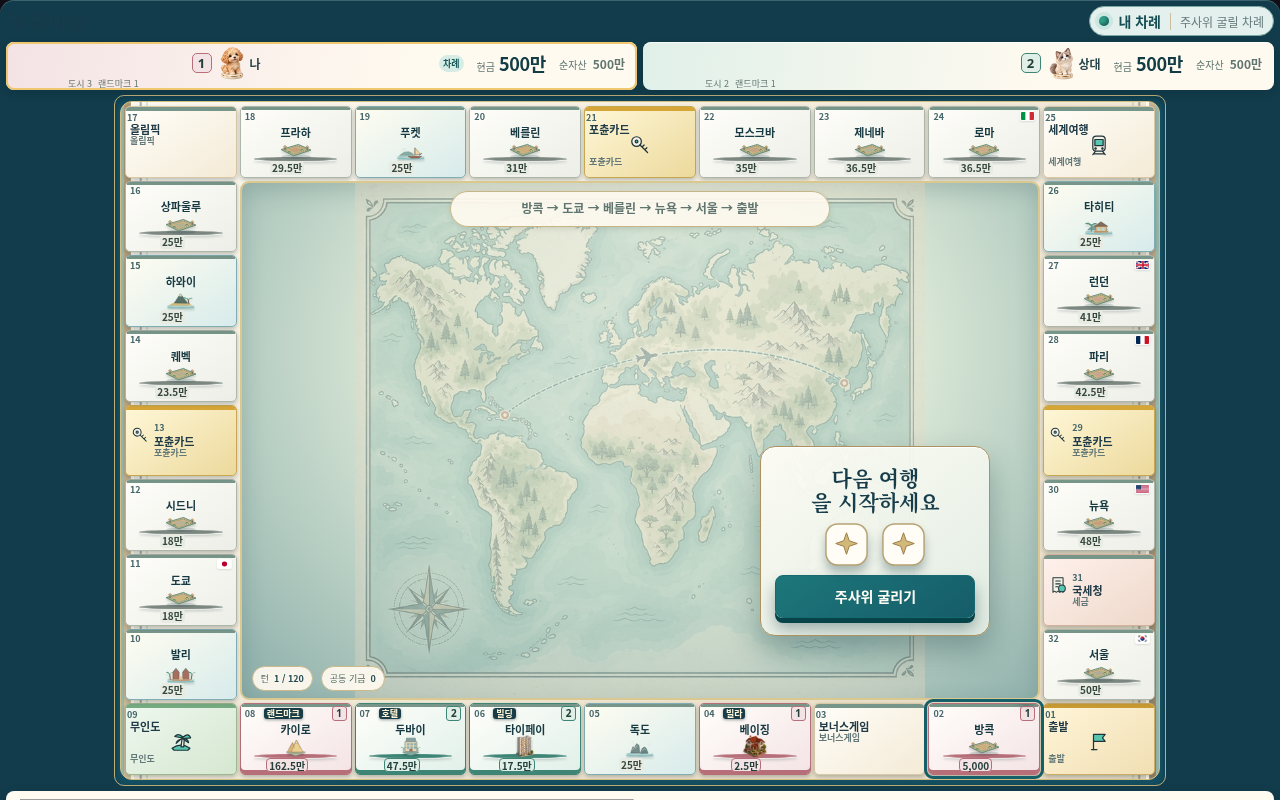
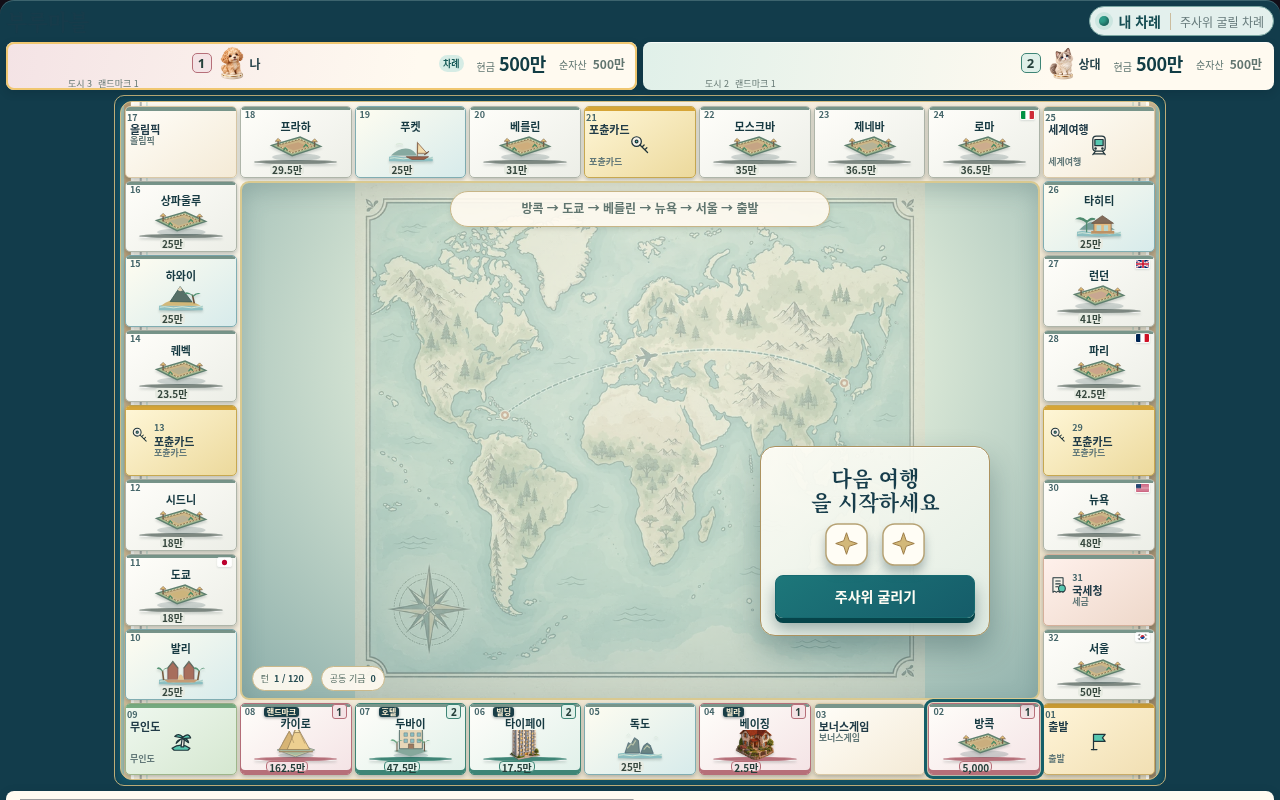
Polish classic Marble stage and crowded mobile board

diff --git a/src/app/MarbleTeamBoard.tsx b/src/app/MarbleTeamBoard.tsx
@@ -78,7 +78,7 @@ export default function MarbleTeamBoard({view:raw,language,runAction,nickname,ro
     catch(cause){setFailure(cause instanceof Error?cause.message:text(language,'다시 시도해 주세요.','Inténtalo de nuevo.'));playCue('marble','error');}
     finally{actionLock.current=false;setPending(false);}
   };
-  const inspect=(index:number)=>{setSelected(index);if(citySheet.current)citySheet.current.open=true;};
+  const inspect=(index:number)=>{setSelected(index);if((view.publicBoard.length!==32||window.innerWidth>680)&&citySheet.current)citySheet.current.open=true;};
   const button=(type:string,primary=false)=>{const choice=first(type);return choice&&!sameAction(choice.action,primaryAction?.action)?<button key={type} className={primary?'mt-primary':'mt-secondary'} disabled={disabled} onClick={()=>void act(choice.action)}>{choice.label[language]}</button>:null;};
   const bank=(seat:FourSeat)=><MarbleTeamBank key={seat} seat={seat} name={names[seat][language]} pawn={s.pawns[seat]} cash={hudMoney[seat]} assets={Number(hudScores[seat])} debt={s.debt[seat]} position={motion.positions[seat]} active={view.turn===seat&&!view.result} eliminated={s.eliminated[seat]} team={fourTeam(seat)} language={language}/>;
   return <section className="marble-native-team marble-team-board is-modern" data-marble-player-count="4" aria-label={text(language,'도시 여행 4인 팀전','Marble por equipos de cuatro')}>
@@ -99,7 +99,7 @@ export default function MarbleTeamBoard({view:raw,language,runAction,nickname,ro
         {motion.rolling||motion.traveler||motion.positions[view.turn]!==pos?<div className="mp-moving-status" aria-live="polite"><h2>{text(language,'여행 중','En camino')}</h2><div className="mp-stage-dice"><MarbleDie value={s.lastRoll[0]} language={language}/><MarbleDie value={s.lastRoll[1]} language={language}/></div><p>{text(language,'말이 한 칸씩 이동하고 있어요','La ficha avanza casilla por casilla')}</p></div>:view.phase==='roll'?<><h2>{human?text(language,'다음 여행을 시작하세요','Empieza el próximo viaje'):`${names[view.turn][language]} · ${text(language,'차례','turno')}`}</h2><div className={`mt-dice mp-stage-dice ${motion.rolling?'is-rolling':''}`} aria-label={text(language,`주사위 ${s.lastRoll[0]}과 ${s.lastRoll[1]}`,`Dados ${s.lastRoll[0]} y ${s.lastRoll[1]}`)}><MarbleDie value={s.lastRoll[0]} language={language}/><MarbleDie value={s.lastRoll[1]} language={language}/></div>{human&&primaryAction&&<button id="mt-action-primary" className="mt-primary" disabled={disabled} onClick={()=>void act(primaryAction.action)}>{primaryAction.label[language]}</button>}</>:<>
           {primaryCity.kind==='property'?<figure className={`mp-stage-art ${motion.changedProperties.includes(primaryIndex)?'is-upgrading':''}`} key={`${cityArtNames[primaryCity.name.ko]??''}-${primaryProp?.houses??0}`}><MarblePropertyArt city={cityArtNames[primaryCity.name.ko]??''} level={primaryProp?.houses??0} routeVersion={3} language={language} owner={primaryProp?.owner??null} ownerLabel={primaryProp?names[primaryProp.owner][language]:text(language,'은행','Banco')}/></figure>:<span className="mp-stage-special" aria-hidden="true"><svg viewBox="0 0 32 32"><use href={`/images/marble/tile-symbols.svg#${primaryCity.kind==='fund-deposit'?'fund-pay':primaryCity.kind==='event'?'key':primaryCity.kind}`}/></svg></span>}
           <div className="mp-stage-details"><small className="mp-center-action-phase">{human&&primaryAction?.action.type==='build'?text(language,'도시 건설','Construir ciudad'):human?phaseNames[view.phase]?.[language]:`${names[view.turn][language]} · ${text(language,'차례','turno')}`}</small><h2>{primaryCity.name[language]}</h2><span className="mp-stage-cash-before">{text(language,`내 현금 ${moneyText(s.money.p1,language)}`,`Mi efectivo ${moneyText(s.money.p1,language)}`)}</span>
-            {primaryCity.kind==='property'?<p className="mp-stage-property-line">{primaryProp?`${names[primaryProp.owner][language]} · ${buildingName(primaryProp.houses,language,true)||text(language,'미건설','Sin construir')} · ${text(language,`${primaryProp.houses}단계`,`nivel ${primaryProp.houses}`)} · ${text(language,'통행료','Alquiler')} ${rentValue({...primaryCity,houses:primaryProp.houses},true)}`:text(language,`미소유 · 미건설 0단계 · 매입 ${primaryCity.price} · 기본 통행료 ${primaryCity.rent}`,`Sin dueño · terreno nivel 0 · compra ${primaryCity.price} · alquiler base ${primaryCity.rent}`)}</p>:<p className="mp-stage-property-line">{text(language,`현금 ${moneyText(s.money.p1,language)} · 공동 기금 ${moneyText(s.fundPool,language)}`,`Efectivo ${moneyText(s.money.p1,language)} · fondo ${moneyText(s.fundPool,language)}`)}</p>}
+            {primaryCity.kind==='property'?<p className="mp-stage-property-line">{primaryProp?`${names[primaryProp.owner][language]} · ${buildingName(primaryProp.houses,language,true,view.publicBoard.length===32?4:3)||text(language,'미건설','Sin construir')} · ${text(language,`${primaryProp.houses}단계`,`nivel ${primaryProp.houses}`)} · ${text(language,'통행료','Alquiler')} ${moneyText(rentValue({...primaryCity,houses:primaryProp.houses},true),language)}`:view.publicBoard.length===32?text(language,`미소유 · 빈 땅 · 매입 ${moneyText(Number(primaryCity.price??0),language)} · 통행료 ${moneyText(Number(primaryCity.rent??0),language)}`,`Sin dueño · terreno · compra ${moneyText(Number(primaryCity.price??0),language)} · alquiler ${moneyText(Number(primaryCity.rent??0),language)}`):text(language,`미소유 · 미건설 0단계 · 매입 ${moneyText(Number(primaryCity.price??0),language)} · 기본 통행료 ${moneyText(Number(primaryCity.rent??0),language)}`,`Sin dueño · terreno nivel 0 · compra ${moneyText(Number(primaryCity.price??0),language)} · alquiler base ${moneyText(Number(primaryCity.rent??0),language)}`)}</p>:<p className="mp-stage-property-line">{text(language,`현금 ${moneyText(s.money.p1,language)} · 공동 기금 ${moneyText(s.fundPool,language)}`,`Efectivo ${moneyText(s.money.p1,language)} · fondo ${moneyText(s.fundPool,language)}`)}</p>}
             {human&&unaffordableBuild&&<p className="mp-stage-shortfall" role="status">{text(language,`${view.publicBoard[Number(unaffordableBuild[0])].name.ko} 다음 건설 ${marbleBuildCost(view.publicBoard[Number(unaffordableBuild[0])],unaffordableBuild[1].houses,3)} · ${marbleBuildCost(view.publicBoard[Number(unaffordableBuild[0])],unaffordableBuild[1].houses,3)-s.money.p1} 부족`,`Próximo nivel de ${view.publicBoard[Number(unaffordableBuild[0])].name.es}: ${marbleBuildCost(view.publicBoard[Number(unaffordableBuild[0])],unaffordableBuild[1].houses,3)} · faltan ${marbleBuildCost(view.publicBoard[Number(unaffordableBuild[0])],unaffordableBuild[1].houses,3)-s.money.p1}`)}</p>}
             {view.phase==='decision'&&primaryCity.kind==='property'&&<MarbleDecisionPreview kind="buy" cost={Number(primaryCity.price??0)} cashAfter={s.money.p1-Number(primaryCity.price??0)} tollBefore={0} tollAfter={Number(primaryCity.rent??0)} shortfall={Math.max(0,Number(primaryCity.price??0)-s.money.p1)} language={language}/>}
             {human&&builds.length>0&&<small className="mp-build-count-note">{text(language,`건설 가능한 도시 ${builds.length}곳`,`Ciudades disponibles para construir: ${builds.length}`)}</small>}
@@ -132,7 +132,7 @@ export default function MarbleTeamBoard({view:raw,language,runAction,nickname,ro
       {human&&by('choose-pawn').length>0&&<details className="mt-pawn-picker"><summary>{text(language,'내 말 선택','Elegir tu ficha')}</summary><MarblePawnPicker view={pawnView} language={language} playerId="p1" runAction={act} disabled={disabled}/></details>}
       {human&&view.phase!=='debt'&&(first('borrow')||first('repay'))&&<details className="mt-loan"><summary>{text(language,'대출·상환','Préstamo y pago')}</summary><p>{text(language,'300을 받고 330을 갚습니다. 개인 대출은 하나만 가능합니다.','Recibes 300 y devuelves 330. Solo un préstamo individual pendiente.')}</p>{button('borrow')}{button('repay')}</details>}
       {motion.event&&<MarbleEventStage events={s.actionLog} event={motion.event} animating={motion.rolling||!!motion.traveler} language={language} playerId="p1" playerNames={names} result={view.result}/>}
-      <details ref={citySheet} className="mt-city-sheet" data-marble-owner={selectedProperty?.owner??'bank'}><summary>{text(language,'도시 살펴보기','Ver ciudad')} · {selectedCity.name[language]}</summary>{selectedCity.kind==='property'?<><MarblePropertyArt city={cityArtNames[selectedCity.name.ko]??''} level={selectedProperty?.houses??0} routeVersion={3} language={language} owner={selectedProperty?.owner??null} ownerLabel={selectedProperty?names[selectedProperty.owner][language]:text(language,'은행','Banco')}/><h3>{selectedCity.name[language]}</h3><p>{text(language,'소유','Dueño')} · {selectedProperty?names[selectedProperty.owner][language]:text(language,'은행','Banco')}</p><p>{text(language,'매입가','Compra')} {selectedCity.price}</p><MarblePropertyLedger tile={selectedCity} language={language} economicVersion={3} propertyRulesVersion={s.propertyRulesVersion} multiplier={(selectedCity as any).monopolyMultiplier??1}/>{selectedBuild&&<button disabled={disabled} onClick={()=>document.querySelector<HTMLElement>('#mt-action-primary:not(:disabled)')?.focus()}>{text(language,'중앙 건설 행동으로 이동','Ir a construir')}</button>}</>:<p>{selectedCity.name[language]}</p>}</details>
+      <details ref={citySheet} className="mt-city-sheet" data-marble-owner={selectedProperty?.owner??'bank'}><summary>{text(language,'도시 살펴보기','Ver ciudad')} · {selectedCity.name[language]}</summary>{selectedCity.kind==='property'?<><MarblePropertyArt city={cityArtNames[selectedCity.name.ko]??''} level={selectedProperty?.houses??0} routeVersion={view.publicBoard.length===32?4:3} language={language} owner={selectedProperty?.owner??null} ownerLabel={selectedProperty?names[selectedProperty.owner][language]:text(language,'은행','Banco')}/><h3>{selectedCity.name[language]}</h3><p>{text(language,'소유','Dueño')} · {selectedProperty?names[selectedProperty.owner][language]:text(language,'은행','Banco')}</p><p>{text(language,'매입가','Compra')} {moneyText(Number(selectedCity.price??0),language)}</p><MarblePropertyLedger tile={selectedCity} language={language} economicVersion={3} propertyRulesVersion={s.propertyRulesVersion} multiplier={(selectedCity as any).monopolyMultiplier??1}/>{selectedBuild&&<button disabled={disabled} onClick={()=>document.querySelector<HTMLElement>('#mt-action-primary:not(:disabled)')?.focus()}>{text(language,'중앙 건설 행동으로 이동','Ir a construir')}</button>}</>:<p>{selectedCity.name[language]}</p>}</details>
       <details className="mt-portfolio"><summary>{text(language,`내 도시 ${owned.length}`,`Mis ciudades ${owned.length}`)}</summary><div>{owned.map(([index,prop])=><button key={index} onClick={()=>inspect(Number(index))}><MarblePropertyArt city={cityArtNames[view.publicBoard[Number(index)].name.ko]??''} level={prop.houses} routeVersion={3} language={language} owner={prop.owner} ownerLabel={names[prop.owner][language]}/><span>{view.publicBoard[Number(index)].name[language]}</span><small>{text(language,`${prop.houses}단계`,`Nivel ${prop.houses}`)}</small></button>)}</div></details>
       {(s.actionLog?.length??0)>0&&<details className="mt-history"><summary>{text(language,'여행 기록','Historial del viaje')}</summary><ol>{s.actionLog.slice(-8).reverse().map(event=><li key={event.sequence}><strong>{event.title[language]}</strong><span>{event.text[language]}</span></li>)}</ol></details>}
       {view.result&&<section className="mt-result" role="status"><h2>{view.result.winner==='draw'?text(language,'무승부','Empate'):view.result.winner==='A'?text(language,'우리 팀 승리','Ganó tu equipo'):text(language,'상대 팀 승리','Ganó el equipo rival')}</h2><p>{view.result.scores.A} : {view.result.scores.B}</p><p>{view.result.reason[language]}</p>{onReplay&&<button className="mt-primary" onClick={()=>void onReplay()}>{text(language,'다시 여행하기','Volver a viajar')}</button>}</section>}

diff --git a/src/app/marble-stage-redesign.css b/src/app/marble-stage-redesign.css
@@ -117,6 +117,7 @@
 
 /* Four seats use the same board, with paired banks wrapped around the travel stage. */
 .marble-native-team.marble-team-board { background:#123c4b; color:#f8f1dd; padding:6px 10px; grid-template-rows:38px minmax(0,1fr); }
+.marble-native-team.marble-team-board:has(.mp-board-grid--32) { height:auto; min-height:100svh; overflow:visible; }
 .marble-native-team.marble-team-board .mt-top { color:#f8f1dd; }
 .marble-native-team.marble-team-board .mt-top h1 { color:#fff3d8; font-size:20px; }
 .marble-native-team.marble-team-board .mt-top small { color:#c6e2d8; }
@@ -128,6 +129,7 @@
 .marble-native-team.marble-team-board .mp-board-panel:has(.mp-board-grid--32) { flex:none; }
 .marble-native-team.marble-team-board .mt-allies { order:2; }
 .marble-native-team.marble-team-board .mt-captain-panel { order:3; display:flex; flex-wrap:wrap; align-items:center; gap:8px; max-height:90px; padding:5px 10px; overflow:auto; border:0; border-radius:8px; background:#fffaf0; color:#284b4d; box-shadow:0 3px 10px #0c263542; }
+.marble-native-team.marble-team-board:has(.mp-board-grid--32) .mt-captain-panel { max-height:none; overflow:visible; }
 .marble-native-team.marble-team-board .mt-captain-panel .mt-action-panel { display:contents; }
 .marble-native-team.marble-team-board .mt-captain-panel .mt-dice-status { display:none; }
 .marble-native-team.marble-team-board .mt-captain-panel .mt-main-actions { display:flex; flex-wrap:wrap; gap:5px; }
@@ -142,7 +144,7 @@
 .marble-native-team.marble-team-board .mt-bank dd { font-size:12px; }
 .marble-native-team.marble-team-board .mt-banks { width:100%; max-width:none; gap:6px; }
 .marble-native-team.marble-team-board .mp-board-grid--40 { width:100%; max-width:none; height:clamp(440px,calc(100svh - 235px),680px); grid-template-columns:clamp(105px,13%,140px) repeat(9,minmax(0,1fr)) clamp(105px,13%,140px); grid-template-rows:clamp(70px,13%,92px) repeat(9,minmax(0,1fr)) clamp(70px,13%,92px); gap:3px; padding:4px; background:#99b7aa url('/images/marble/backing-board.svg') center/cover; border-color:#d4bd81; }
-.marble-native-team.marble-team-board .mp-board-grid--32 { height:clamp(520px,calc(100svh - 195px),710px); }
+.marble-native-team.marble-team-board .mp-board-grid--32 { height:clamp(560px,calc(100svh - 165px),735px); }
 .marble-native-team.marble-team-board .mp-center-stage { bottom:13%; }
 .marble-native-team.marble-team-board .mp-center-stage.mp-stage--roll { bottom:25%; }
 .marble-native-team.marble-team-board .mp-board-center .mp-ownership-key { display:none; }
@@ -256,26 +258,27 @@
 }
 /* A 32-cell route uses one tile template on every side: heading, art, then price or toll. */
 :is(.marble-premium,.marble-native-team).is-modern .mp-board-grid--32 .mp-tile.mp-kind-property .mp-tile-content { position:relative; inset:auto; width:100%; height:100%; transform:none; }
-:is(.marble-premium,.marble-native-team).is-modern .mp-board-grid--32 .mp-tile.mp-kind-property .mp-tile-top { position:relative; inset:auto; width:100%; height:14px; min-height:14px; }
+:is(.marble-premium,.marble-native-team).is-modern .mp-board-grid--32 .mp-tile.mp-kind-property .mp-tile-top { position:relative; inset:auto; width:100%; height:11px; min-height:11px; }
 :is(.marble-premium,.marble-native-team).is-modern .mp-board-grid--32 .mp-tile.mp-kind-property .mp-property-tile-view {
-  display:grid; grid-template-columns:minmax(0,1fr); grid-template-rows:19px minmax(0,1fr) 14px;
-  width:100%; height:calc(100% - 14px); min-height:0; margin:0; gap:0; align-items:stretch;
+  display:grid; grid-template-columns:minmax(0,1fr); grid-template-rows:13px minmax(0,1fr) 11px;
+  width:100%; height:calc(100% - 11px); min-height:0; margin:0; gap:0; align-items:stretch;
 }
 :is(.marble-premium,.marble-native-team).is-modern .mp-board-grid--32 .mp-tile.mp-kind-property .mp-property-tile-copy { display:contents; }
 :is(.marble-premium,.marble-native-team).is-modern .mp-board-grid--32 .mp-tile.mp-kind-property .mp-property-tile-copy .mp-tile-name {
-  grid-column:1; grid-row:1; align-self:center; display:block; width:100%; height:auto; max-height:19px;
+  grid-column:1; grid-row:1; align-self:center; display:block; width:100%; height:auto; max-height:13px;
   margin:0; overflow:hidden; color:#173a42; font-size:11px; line-height:1.05; font-weight:850;
   text-align:center; white-space:normal; word-break:keep-all; overflow-wrap:anywhere; text-overflow:clip;
 }
 :is(.marble-premium,.marble-native-team).is-modern .mp-board-grid--32 .mp-tile.mp-kind-property .mp-property-tile-art {
-  grid-column:1; grid-row:2; display:block; width:100%; height:100%; min-height:0; max-height:none; margin:0;
+  grid-column:1; grid-row:2; display:block; width:100%; height:100%; min-height:0; max-height:none; margin:0; overflow:hidden;
 }
 :is(.marble-premium,.marble-native-team).is-modern .mp-board-grid--32 .mp-tile.mp-kind-property .mp-property-tile-art .mp-property-art-image { transform:scale(1.22); transform-origin:center bottom; }
 :is(.marble-premium,.marble-native-team).is-modern .mp-board-grid--32 .mp-tile.mp-kind-property .mp-property-tile-copy .mp-tile-economy {
-  grid-column:1; grid-row:3; display:block; width:100%; height:14px; margin:0; padding:0 17px 0 0; line-height:14px; text-align:center;
+  grid-column:1; grid-row:3; display:block; width:100%; height:11px; margin:0; padding:0 17px 0 0; line-height:11px; text-align:center;
 }
-:is(.marble-premium,.marble-native-team).is-modern .mp-board-grid--32 .mp-tile.mp-kind-property .mp-property-tile-copy .mp-tile-economy b { display:inline-block; min-width:0; height:14px; max-width:100%; padding:0 2px; font-size:10px; line-height:14px; white-space:nowrap; }
-:is(.marble-premium,.marble-native-team).is-modern .mp-board-grid--32 .mp-tile.mp-kind-property .mp-building-badge { top:-12px; left:19px; right:auto; bottom:auto; height:11px; min-width:0; max-width:calc(100% - 40px); padding:0 3px; overflow:hidden; font-size:9px; line-height:11px; white-space:nowrap; text-overflow:ellipsis; }
+:is(.marble-premium,.marble-native-team).is-modern .mp-board-grid--32 .mp-tile.mp-kind-property .mp-property-tile-copy .mp-tile-economy b { display:inline-block; min-width:0; height:11px; max-width:100%; padding:0 2px; font-size:10px; line-height:11px; white-space:nowrap; }
+:is(.marble-premium,.marble-native-team).is-modern .mp-board-grid--32 .mp-tile.mp-kind-property .mp-building-badge { top:-10px; left:19px; right:auto; bottom:auto; height:10px; min-width:0; max-width:calc(100% - 40px); padding:0 3px; overflow:hidden; font-size:8px; line-height:10px; white-space:nowrap; text-overflow:ellipsis; }
+:is(.marble-premium,.marble-native-team).is-modern .mp-board-grid--32 .mp-tile.mp-kind-property :is(.mp-property-art-image[data-building-level="3"],.mp-property-art-image[data-building-level="4"]) { transform:scale(1.45); transform-origin:center bottom; }
 :is(.marble-premium,.marble-native-team).is-modern .mp-board-grid--32 .mp-tile.mp-kind-property .mp-building-badge::before { content:none; }
 :is(.marble-premium,.marble-native-team).is-modern .mp-board-grid--32 .mp-tile.mp-kind-property .mp-building-badge[data-building-level="0"] { display:none; }
 :is(.marble-premium,.marble-native-team).is-modern .mp-board-grid--32 .mp-tile.mp-kind-tourism { background:linear-gradient(145deg,#fffdf1,#d7ebeb); border-color:#80adb2; }
@@ -302,6 +305,12 @@
   :is(.marble-premium,.marble-native-team).is-modern .mp-board-grid--32 .mp-tile.mp-kind-property .mp-property-tile-art { display:block; width:100%; height:100%; }
   :is(.marble-premium,.marble-native-team).is-modern .mp-board-grid--32 .mp-tile .mp-building-badge { font-size:8px; }
   :is(.marble-premium,.marble-native-team).is-modern .mp-board-grid--32 .mp-tile.mp-kind-property .mp-building-badge { display:none; }
+  :is(.marble-premium,.marble-native-team).is-modern .mp-board-grid--32 .mp-tile .mp-pawns { position:absolute; z-index:8; inset:auto 0 0 auto; display:flex; flex-wrap:nowrap; justify-content:flex-end; align-items:center; gap:0; width:100%; max-width:none; height:11px; padding:0 1px; transform:none; background:linear-gradient(90deg,transparent,#fffaf0eb); pointer-events:none; }
+  :is(.marble-premium,.marble-native-team).is-modern .mp-board-grid--32 .mp-tile .mp-pawns::before { content:none; }
+  :is(.marble-premium,.marble-native-team).is-modern .mp-board-grid--32 .mp-tile .mp-pawn-marker { position:relative; flex:0 0 8px; width:8px; height:10px; margin:0; filter:none; }
+  :is(.marble-premium,.marble-native-team).is-modern .mp-board-grid--32 .mp-tile .mp-pawn-marker .marble-pawn { display:none; }
+  :is(.marble-premium,.marble-native-team).is-modern .mp-board-grid--32 .mp-tile .mp-pawn-marker::after { content:attr(data-seat-number); position:absolute; inset:0; display:grid; place-items:center; width:8px; height:10px; border:1px solid #34585d; border-radius:3px; background:#fff5df; color:#183c44; font:800 7px/1 sans-serif; }
+  :is(.marble-premium,.marble-native-team).is-modern .mp-board-grid--32 .mp-tile .mp-pawn-marker.is-you::after { background:#ffe0a5; border-color:#8e5e32; }
   :is(.marble-premium,.marble-native-team).is-modern .mp-board-grid--32 .mp-board-center { overflow:hidden; }
   :is(.marble-premium,.marble-native-team).is-modern .mp-board-grid--32 .mp-center-route { display:none; }
   :is(.marble-premium,.marble-native-team).is-modern .mp-board-grid--32 .mp-world-map { width:100%; height:100%; object-fit:cover; }
@@ -321,7 +330,7 @@
   :is(.marble-premium,.marble-native-team).is-modern .mp-center-stage.mp-stage--roll,
   :is(.marble-premium,.marble-native-team).is-modern .mp-center-stage.mp-stage--moving {
     display:flex; flex-direction:column; justify-content:center; min-height:145px;
-    border:1px solid #b69d67; border-radius:12px; background:#fffaf0f4; color:#24454a;
+    border:1px solid #b69d67; border-radius:12px; background:#fffaf0; color:#24454a;
     box-shadow:0 8px 25px #12353a66;
   }
   :is(.marble-premium,.marble-native-team).is-modern .mp-center-stage.mp-stage--roll > h2 { font-size:19px; }

diff --git a/src/app/MarbleBoard.tsx b/src/app/MarbleBoard.tsx
@@ -185,7 +185,7 @@ export default function MarbleBoard({ view: rawView, language, playerId, runActi
   const actionPanelRef = useRef<HTMLElement>(null);
   const cityDetailsRef = useRef<HTMLDetailsElement>(null);
   const [feedbackVisible, setFeedbackVisible] = useState(stageEvents.length > 0);
-  const inspectTile = (index: number) => { setSelectedTile(index); if (cityDetailsRef.current) cityDetailsRef.current.open = true; };
+  const inspectTile = (index: number) => { setSelectedTile(index); if ((tiles.length !== 32 || window.innerWidth > 680) && cityDetailsRef.current) cityDetailsRef.current.open = true; };
   useEffect(() => setTarget(''), [phase]);
   useEffect(() => {
     if (!actionSequence) return;

diff --git a/docs/qa/marble-stage-redesign/README.md b/docs/qa/marble-stage-redesign/README.md
@@ -12,8 +12,10 @@ The [fixture data](classic-world-32-fixture.json) was exported directly from `sr
 | Seoul bank purchase, 500만 cash and 50만 land | [Korean 1280 × 800](classic32-2p-purchase-ko-1280x800.png), [Spanish 1280 × 800](classic32-2p-purchase-es-1280x800.png) |
 | Full map, own cash, selected city and both purchase choices | [Two player 390 × 844](classic32-2p-purchase-ko-390x844.png), [four player 390 × 844](classic32-4p-purchase-ko-390x844.png) |
 | Other widths | [Four player 390 roll](classic32-4p-roll-ko-390x844.png), [four player 768 roll](classic32-4p-roll-ko-768x900.png) |
+| Crowded mobile board with three owned cities and four pawns on one tile | [New York selected](classic32-4p-crowded-ko-390x844.png), [after tapping Seoul](classic32-4p-crowded-selected-ko-390x844.png) |
+| Four player auxiliary menu after document scroll | [1440 × 900](classic32-4p-roll-ko-1440x900-menu.png), [768 × 900](classic32-4p-roll-ko-768x900-menu.png) |
 
-At 1280 × 800, a two player 32 cell board is 1040 × 679 pixels and each edge tile is about 111 × 72 pixels. The four player board uses the same column width; all four edges share the same cell grid within each layout. The 390 pixel view fits the complete board, own cash, selected tile enlargement, and purchase/skip in the viewport. At 768 pixels the board stays inside the viewport without horizontal clipping. Vacant land, villa, building, hotel, and landmark use different original drawings; the stage label sits in the tile header and owner marker has its own slot.
+At 1280 × 800, a two player 32 cell board is 1040 × 679 pixels and each edge tile is about 111 × 72 pixels. The four player board uses the same column width; all four edges share the same cell grid within each layout. The 390 pixel view fits the complete board, own cash, selected tile enlargement, and purchase/skip in the viewport. At 768 pixels the board stays inside the viewport without horizontal clipping. Vacant land, villa, building, hotel, and landmark use different original drawings; the stage label sits in the tile header and owner marker has its own slot. In the simultaneous stages capture, each artwork row measures 31 px instead of the earlier ~20 px. The crowded fixture checks that tapping Seoul switches the enlarged title from New York to Seoul while own cash and the roll button remain visible. The four player auxiliary menu follows the normal document scroll; primary actions remain on the board.
 
 ## Current live 40 cell game behavior
 
